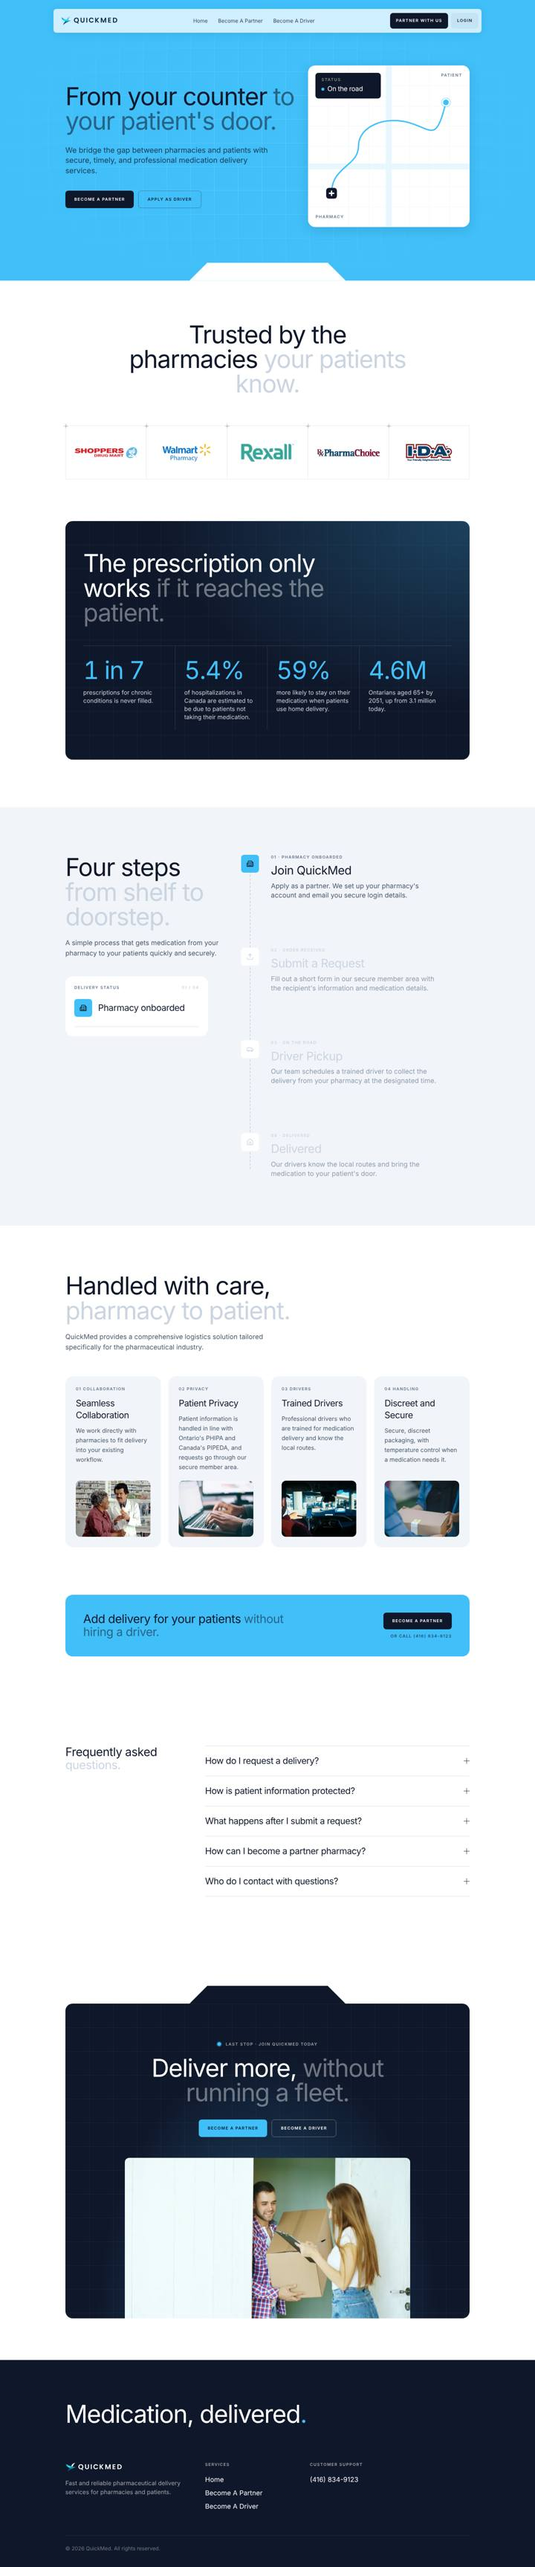
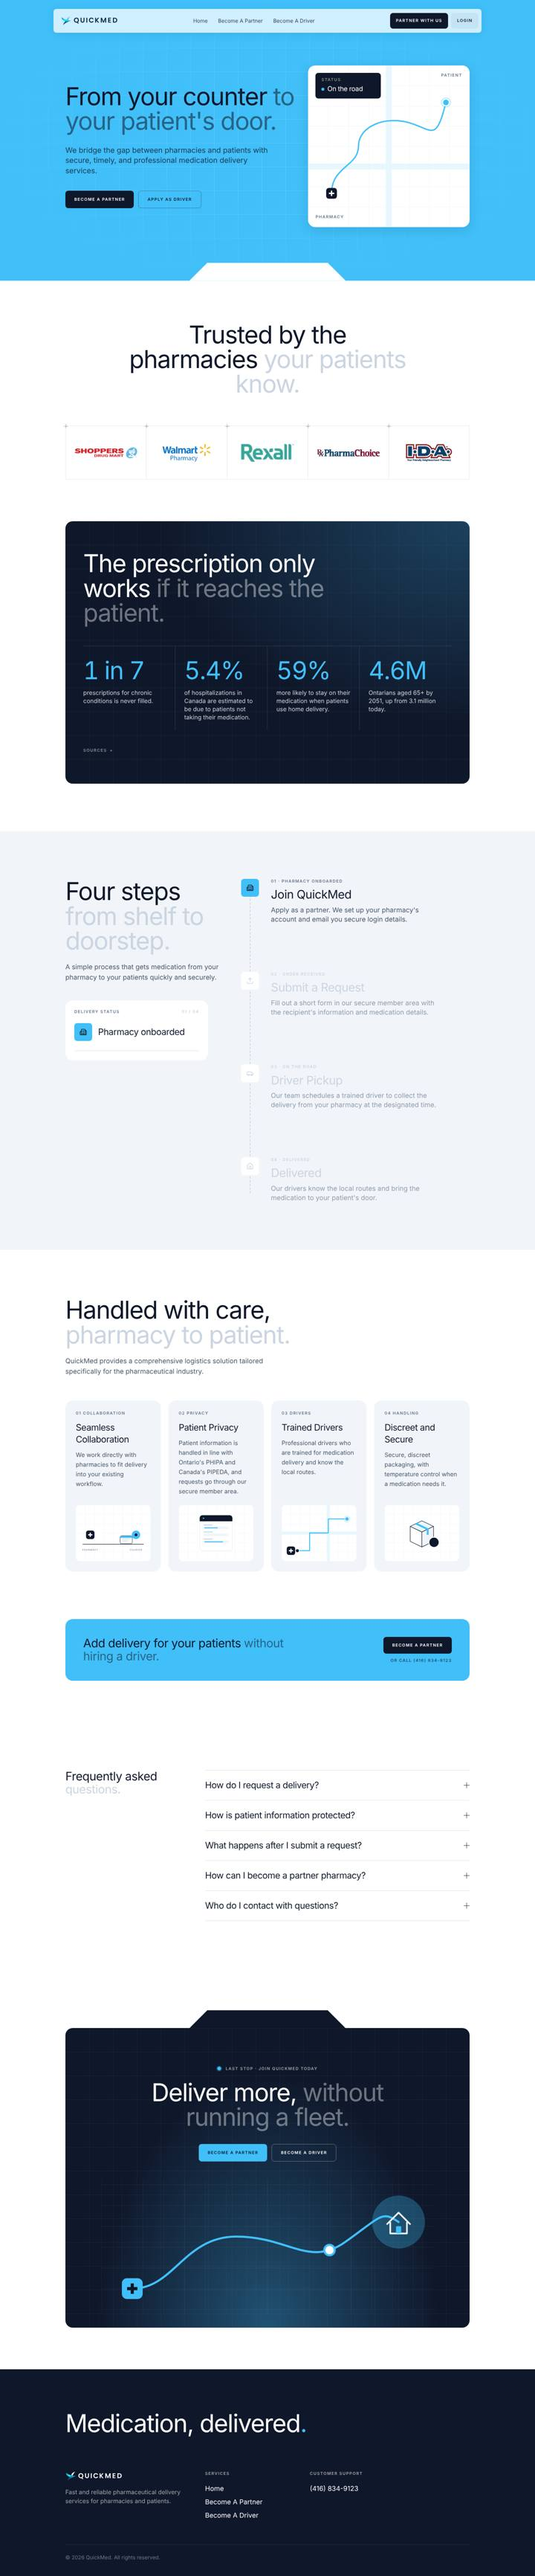
Replace the photos with animated brand illustrations
The safeguards cards and the closing panel now use small SVG scenes drawn
in the hero route-map style (counter handoff, secured form, driver route,
sealed package, route to the patient's door). They animate once in view,
hold their final frame under prefers-reduced-motion, and ship no image files.

Claude-Session: https://claude.ai/code/session_013yoprER6nrvyU9BHoq6jjD

diff --git a/src/components/home/scenes.tsx b/src/components/home/scenes.tsx
@@ -1,0 +1,196 @@
+'use client';
+
+import type { ReactNode } from "react";
+import { cn } from "../ui/button";
+import { useInView, useReducedMotion } from "../motion/use-in-view";
+
+// Small animated SVG scenes drawn in the same style as the hero route map.
+// They start animating when scrolled into view; without motion they show their final frame.
+
+function Scene({ children, className, label }: { children: ReactNode; className?: string; label: string }) {
+    const [ref, inView] = useInView<HTMLDivElement>();
+    return (
+        <div ref={ref} data-in={inView} role="img" aria-label={label} className={cn("scene h-full w-full", className)}>
+            {children}
+        </div>
+    );
+}
+
+const STREETS = (
+    <>
+        <defs>
+            <pattern id="scene-grid" width="40" height="40" patternUnits="userSpaceOnUse">
+                <path d="M40 0H0V40" fill="none" stroke="var(--hairline)" strokeWidth="1" />
+            </pattern>
+        </defs>
+        <rect width="320" height="240" fill="url(#scene-grid)" />
+    </>
+);
+
+function PharmacyMark({ x, y }: { x: number; y: number }) {
+    return (
+        <g transform={`translate(${x} ${y})`}>
+            <rect x="-18" y="-18" width="36" height="36" rx="9" fill="var(--ink)" />
+            <path d="M-2.5 -9h5v6.5h6.5v5h-6.5v6.5h-5v-6.5h-6.5v-5h6.5z" fill="white" />
+        </g>
+    );
+}
+
+// 01 Collaboration: an order ticket slides across the counter from pharmacy to courier.
+export function CounterScene() {
+    return (
+        <Scene label="Order passing from the pharmacy to a QuickMed courier">
+            <svg viewBox="0 0 320 240" className="h-full w-full" preserveAspectRatio="xMidYMid slice" aria-hidden="true">
+                {STREETS}
+                <line x1="30" y1="168" x2="290" y2="168" stroke="var(--ink)" strokeWidth="2" strokeLinecap="round" />
+                <PharmacyMark x={62} y={128} />
+                <g transform="translate(258 128)">
+                    <circle r="18" fill="var(--brand)" />
+                    <circle r="6" fill="var(--ink)" />
+                </g>
+                <g className="s-ticket">
+                    <rect x="-26" y="-34" width="52" height="34" rx="6" fill="white" stroke="var(--ink)" strokeWidth="1.5" transform="translate(160 166)" />
+                    <rect x="-26" y="-34" width="52" height="9" rx="4" fill="var(--brand)" transform="translate(160 166)" />
+                    <path d="M144 146h32M144 154h22" stroke="var(--gray-light)" strokeWidth="3" strokeLinecap="round" />
+                </g>
+                <text x="62" y="196" textAnchor="middle" className="scene-label">Pharmacy</text>
+                <text x="258" y="196" textAnchor="middle" className="scene-label">Courier</text>
+            </svg>
+        </Scene>
+    );
+}
+
+// 02 Privacy: the request form fills in, then a lock closes over it.
+export function PrivacyScene() {
+    return (
+        <Scene label="Delivery request form secured with a lock">
+            <svg viewBox="0 0 320 240" className="h-full w-full" preserveAspectRatio="xMidYMid slice" aria-hidden="true">
+                {STREETS}
+                <rect x="90" y="44" width="140" height="152" rx="12" fill="white" stroke="var(--hairline)" strokeWidth="1.5" />
+                <rect x="90" y="44" width="140" height="26" rx="12" fill="var(--ink)" />
+                <rect x="90" y="58" width="140" height="12" fill="var(--ink)" />
+                <circle cx="106" cy="57" r="3" fill="var(--brand)" />
+                {[92, 122, 152].map((y, i) => (
+                    <g key={y}>
+                        <rect x="106" y={y - 8} width="40" height="4" rx="2" fill="var(--gray-light)" />
+                        <rect x="106" y={y} width="108" height="12" rx="4" fill="var(--surface)" />
+                        <rect x="110" y={y + 4} width="80" height="4" rx="2" fill="var(--brand)" className="s-field" style={{ animationDelay: `${i * 350}ms` }} />
+                    </g>
+                ))}
+                <g transform="translate(226 186)"><g className="s-lock">
+                    <circle r="22" fill="var(--brand)" stroke="white" strokeWidth="4" />
+                    <rect x="-8" y="-3" width="16" height="12" rx="2.5" fill="var(--ink)" />
+                    <path d="M-5 -3v-4a5 5 0 0 1 10 0v4" fill="none" stroke="var(--ink)" strokeWidth="2.5" />
+                </g></g>
+            </svg>
+        </Scene>
+    );
+}
+
+// 03 Drivers: a courier drives a route through the street grid.
+const DRIVE = "M40 196 H120 V120 H200 V60 H280";
+
+export function RouteScene() {
+    const motion = !useReducedMotion();
+    return (
+        <Scene label="Courier following a route through local streets">
+            <svg viewBox="0 0 320 240" className="h-full w-full" preserveAspectRatio="xMidYMid slice" aria-hidden="true">
+                {STREETS}
+                <path d="M0 120 H320 M200 0 V240" stroke="var(--brand-soft)" strokeWidth="14" />
+                <path d={DRIVE} fill="none" stroke="var(--gray-light)" strokeWidth="3" strokeDasharray="2 7" strokeLinecap="round" />
+                <path id="scene-drive" d={DRIVE} pathLength={1} fill="none" stroke="var(--brand)" strokeWidth="4" strokeLinecap="round" strokeLinejoin="round" className="s-draw" />
+                <PharmacyMark x={40} y={196} />
+                <g transform="translate(280 60)">
+                    <circle r="9" fill="var(--brand)" className="pin-pulse" />
+                    <circle r="9" fill="var(--brand)" stroke="white" strokeWidth="3" />
+                </g>
+                <g>
+                    <circle r="8" fill="var(--ink)" stroke="white" strokeWidth="3" />
+                    {/* Separate elements so SMIL starts fresh when motion turns on after hydration. */}
+                    {motion ? (
+                        <animateMotion key="drive" dur="5s" repeatCount="indefinite">
+                            <mpath href="#scene-drive" />
+                        </animateMotion>
+                    ) : (
+                        <animateMotion key="still" dur="0.01s" fill="freeze" keyPoints="1;1" keyTimes="0;1" calcMode="linear">
+                            <mpath href="#scene-drive" />
+                        </animateMotion>
+                    )}
+                </g>
+            </svg>
+        </Scene>
+    );
+}
+
+// 04 Handling: a sealed package gets its tamper seal and a check.
+export function PackageScene() {
+    return (
+        <Scene label="Sealed package with a tamper-evident seal">
+            <svg viewBox="0 0 320 240" className="h-full w-full" preserveAspectRatio="xMidYMid slice" aria-hidden="true">
+                {STREETS}
+                <path d="M110 92 L160 68 L210 92 L160 116 Z" fill="var(--brand-soft)" stroke="var(--ink)" strokeWidth="2" strokeLinejoin="round" />
+                <path d="M110 92 V156 L160 180 V116 Z" fill="white" stroke="var(--ink)" strokeWidth="2" strokeLinejoin="round" />
+                <path d="M210 92 V156 L160 180 V116 Z" fill="var(--surface)" stroke="var(--ink)" strokeWidth="2" strokeLinejoin="round" />
+                <path d="M135 80 L185 104 V128" fill="none" stroke="var(--brand)" strokeWidth="8" strokeLinejoin="round" />
+                <g transform="translate(212 160)"><g className="s-seal">
+                    <circle r="22" fill="var(--ink)" stroke="white" strokeWidth="4" />
+                    <path d="M-9 0 l6 6 l12 -12" fill="none" stroke="var(--brand)" strokeWidth="3.5" strokeLinecap="round" strokeLinejoin="round" pathLength={1} className="s-check" />
+                </g></g>
+            </svg>
+        </Scene>
+    );
+}
+
+// Last stop: a wide route that ends at the patient's door, drawn for the dark panel.
+const DOOR_ROUTE = "M60 240 C 140 240, 160 140, 260 140 S 400 200, 470 150 S 540 90, 572 112";
+
+export function DoorstepScene() {
+    const motion = !useReducedMotion();
+    return (
+        <Scene label="Delivery route ending at the patient's front door" >
+            <svg viewBox="0 30 640 256" className="h-full w-full" preserveAspectRatio="xMidYMid meet" aria-hidden="true">
+                <defs>
+                    <pattern id="door-grid" width="40" height="40" patternUnits="userSpaceOnUse">
+                        <path d="M40 0H0V40" fill="none" stroke="rgb(255 255 255 / 0.08)" strokeWidth="1" />
+                    </pattern>
+                </defs>
+                <rect width="640" height="320" fill="url(#door-grid)" />
+                <path d={DOOR_ROUTE} fill="none" stroke="rgb(255 255 255 / 0.2)" strokeWidth="3" strokeDasharray="2 8" strokeLinecap="round" />
+                <path id="door-route" d={DOOR_ROUTE} pathLength={1} fill="none" stroke="var(--brand)" strokeWidth="4" strokeLinecap="round" className="s-draw" />
+
+                <g transform="translate(60 240)">
+                    <rect x="-20" y="-20" width="40" height="40" rx="10" fill="var(--brand)" />
+                    <path d="M-3 -10h6v7h7v6h-7v7h-6v-7h-7v-6h7z" fill="var(--ink)" />
+                </g>
+
+                {/* The patient's home */}
+                <g transform="translate(572 112)">
+                    <circle r="34" fill="var(--brand)" opacity="0.15" className="pin-pulse" />
+                    <path d="M-22 4 L0 -18 L22 4" fill="none" stroke="white" strokeWidth="3" strokeLinecap="round" strokeLinejoin="round" />
+                    <path d="M-16 0 V22 H16 V0" fill="none" stroke="white" strokeWidth="3" strokeLinejoin="round" />
+                    <rect x="-5" y="8" width="10" height="14" rx="2" fill="var(--brand)" />
+                </g>
+
+                <g>
+                    <circle r="10" fill="white" stroke="var(--brand)" strokeWidth="4" />
+                    {/* Separate elements so SMIL starts fresh when motion turns on after hydration. */}
+                    {motion ? (
+                        <animateMotion key="drive" dur="6s" repeatCount="indefinite">
+                            <mpath href="#door-route" />
+                        </animateMotion>
+                    ) : (
+                        <animateMotion key="still" dur="0.01s" fill="freeze" keyPoints="1;1" keyTimes="0;1" calcMode="linear">
+                            <mpath href="#door-route" />
+                        </animateMotion>
+                    )}
+                </g>
+
+                <g transform="translate(472 210)"><g className="s-delivered">
+                    <rect x="-62" y="-20" width="124" height="40" rx="10" fill="white" />
+                    <circle cx="-40" cy="0" r="5" fill="var(--brand)" />
+                    <text x="-28" y="5" className="scene-chip">Delivered</text>
+                </g></g>
+            </svg>
+        </Scene>
+    );
+}

diff --git a/src/components/services.tsx b/src/components/services.tsx
@@ -1,34 +1,30 @@
-import Image from "next/image";
 import { Reveal, WordReveal } from "./motion/reveal";
+import { CounterScene, PackageScene, PrivacyScene, RouteScene } from "./home/scenes";
 
 const services = [
     {
         eyebrow: "01 Collaboration",
         title: "Seamless Collaboration",
         description: "We work directly with pharmacies to fit delivery into your existing workflow.",
-        image: "/images/photos/pharmacist-counseling.jpg",
-        alt: "Pharmacist at the counter showing a prescription bottle to a patient",
+        scene: CounterScene,
     },
     {
         eyebrow: "02 Privacy",
         title: "Patient Privacy",
         description: "Patient information is handled in line with Ontario's PHIPA and Canada's PIPEDA, and requests go through our secure member area.",
-        image: "/images/photos/secure-member-area.jpg",
-        alt: "Person entering details on a laptop",
+        scene: PrivacyScene,
     },
     {
         eyebrow: "03 Drivers",
         title: "Trained Drivers",
         description: "Professional drivers who are trained for medication delivery and know the local routes.",
-        image: "/images/photos/driver-navigation.jpg",
-        alt: "Driver following a route on a phone mounted on the dashboard",
+        scene: RouteScene,
     },
     {
         eyebrow: "04 Handling",
         title: "Discreet and Secure",
         description: "Secure, discreet packaging, with temperature control when a medication needs it.",
-        image: "/images/photos/sealed-handoff.jpg",
-        alt: "Sealed package being handed over",
+        scene: PackageScene,
     },
 ];
 
@@ -50,13 +46,13 @@ export function Services() {
                 </div>
 
                 <div className="grid grid-cols-1 sm:grid-cols-2 lg:grid-cols-4 gap-4 md:gap-5">
-                    {services.map((service, index) => (
+                    {services.map(({ scene: SceneArt, ...service }, index) => (
                         <Reveal key={service.title} delay={index * 100} className="bg-surface rounded-[20px] p-6 md:p-7 flex flex-col">
                             <p className="label-mono text-gray-mid mb-4">{service.eyebrow}</p>
                             <h3 className="text-2xl tracking-tight text-ink mb-3">{service.title}</h3>
                             <p className="text-gray leading-relaxed mb-6">{service.description}</p>
                             <div className="relative mt-auto aspect-[16/9] sm:aspect-[4/3] rounded-xl overflow-hidden bg-white">
-                                <Image src={service.image} alt={service.alt} fill sizes="(min-width: 1024px) 270px, (min-width: 640px) 45vw, 90vw" className="object-cover" />
+                                <SceneArt />
                             </div>
                         </Reveal>
                     ))}

diff --git a/src/app/globals.css b/src/app/globals.css
@@ -232,3 +232,101 @@ body {
     animation: none;
   }
 }
+
+/* ---- Illustrated scenes (src/components/home/scenes.tsx). Final frame is the
+   default; the loops only run once a scene is in view and motion is allowed. ---- */
+.scene-label {
+  font-family: var(--font-mono), ui-monospace, monospace;
+  font-size: 10px;
+  letter-spacing: 0.14em;
+  text-transform: uppercase;
+  fill: var(--gray-mid);
+}
+
+.scene-chip {
+  font-family: var(--font-sans), sans-serif;
+  font-size: 16px;
+  fill: var(--ink);
+}
+
+.scene .s-draw {
+  stroke-dasharray: 1;
+  stroke-dashoffset: 0;
+}
+
+.scene .s-lock,
+.scene .s-seal,
+.scene .s-delivered {
+  transform-box: fill-box;
+  transform-origin: center;
+}
+
+@media (prefers-reduced-motion: no-preference) {
+  .scene[data-in="false"] .s-draw {
+    stroke-dashoffset: 1;
+  }
+
+  .scene[data-in="true"] .s-draw {
+    animation: route-draw 2s var(--ease-expo) both;
+  }
+
+  .scene[data-in="true"] .s-ticket {
+    animation: s-ticket 4s var(--ease-expo) infinite;
+  }
+
+  .scene[data-in="true"] .s-field {
+    transform-box: fill-box;
+    transform-origin: left;
+    animation: s-field 4.5s var(--ease-expo) infinite;
+  }
+
+  .scene[data-in="true"] .s-lock {
+    animation: s-pop 4.5s var(--ease-expo) infinite;
+  }
+
+  .scene[data-in="true"] .s-seal {
+    animation: s-stamp 4s var(--ease-expo) infinite;
+  }
+
+  .scene[data-in="true"] .s-check {
+    stroke-dasharray: 1;
+    animation: s-check 4s var(--ease-expo) infinite;
+  }
+
+  .scene[data-in="true"] .s-delivered {
+    animation: s-delivered 6s ease-out infinite;
+  }
+}
+
+@keyframes s-ticket {
+  0%, 10% { transform: translateX(-90px); opacity: 0; }
+  20% { opacity: 1; }
+  70% { transform: translateX(80px); opacity: 1; }
+  85%, 100% { transform: translateX(80px); opacity: 0; }
+}
+
+@keyframes s-field {
+  0%, 8% { transform: scaleX(0); }
+  30%, 100% { transform: scaleX(1); }
+}
+
+@keyframes s-pop {
+  0%, 55% { transform: scale(0); }
+  68% { transform: scale(1.12); }
+  76%, 100% { transform: scale(1); }
+}
+
+@keyframes s-stamp {
+  0%, 15% { transform: scale(1.6); opacity: 0; }
+  30%, 100% { transform: scale(1); opacity: 1; }
+}
+
+@keyframes s-check {
+  0%, 30% { stroke-dashoffset: 1; }
+  50%, 100% { stroke-dashoffset: 0; }
+}
+
+@keyframes s-delivered {
+  0%, 82% { opacity: 0; transform: translateY(8px); }
+  88%, 100% { opacity: 1; transform: none; }
+}

diff --git a/src/components/home/join-cta.tsx b/src/components/home/join-cta.tsx
@@ -1,6 +1,6 @@
-import Image from "next/image";
 import { CtaLink } from "../ui/cta-link";
-import { Reveal, WordReveal } from "../motion/reveal";
+import { WordReveal } from "../motion/reveal";
+import { DoorstepScene } from "./scenes";
 
 // Last stop of the route: the patient's door, and the page's final ask.
 export function JoinCta() {
@@ -10,7 +10,7 @@ export function JoinCta() {
                 <div className="flex justify-center text-ink" aria-hidden="true">
                     <div className="notch" />
                 </div>
-                <div className="relative overflow-hidden rounded-[20px] bg-ink text-white px-6 pt-16 md:px-16 md:pt-24 text-center">
+                <div className="relative overflow-hidden rounded-[20px] bg-ink text-white px-6 pt-16 pb-6 md:px-16 md:pt-24 md:pb-10 text-center">
                     <div className="absolute inset-0 grid-pattern" aria-hidden="true" />
                     <div className="absolute inset-0 bg-[radial-gradient(ellipse_at_bottom,rgb(65_191_249/0.35),transparent_60%)]" aria-hidden="true" />
                     <div className="relative">
@@ -36,15 +36,9 @@ export function JoinCta() {
                                 Become a driver
                             </CtaLink>
                         </div>
-                        <Reveal className="relative mx-auto mt-14 max-w-3xl aspect-[16/9] rounded-t-xl overflow-hidden">
-                            <Image
-                                src="/images/photos/doorstep-delivery.jpg"
-                                alt="Courier handing a package to a customer at their front door"
-                                fill
-                                sizes="(min-width: 768px) 768px, 90vw"
-                                className="object-cover"
-                            />
-                        </Reveal>
+                        <div className="relative mx-auto mt-12 max-w-4xl aspect-[5/2]">
+                            <DoorstepScene />
+                        </div>
                     </div>
                 </div>
             </div>
